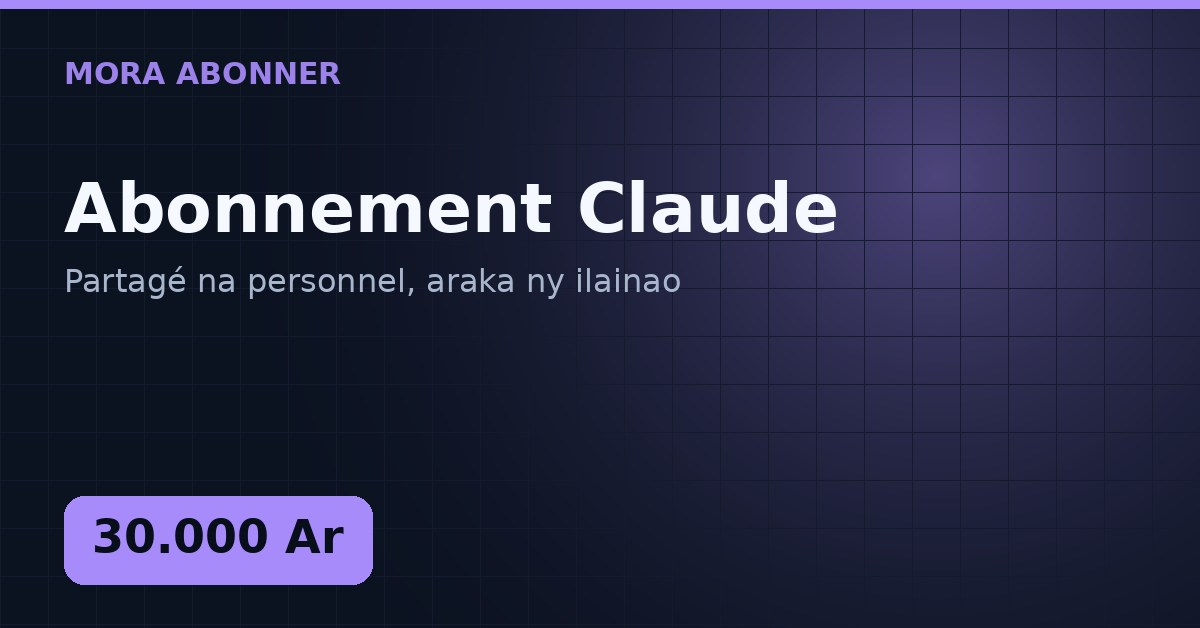
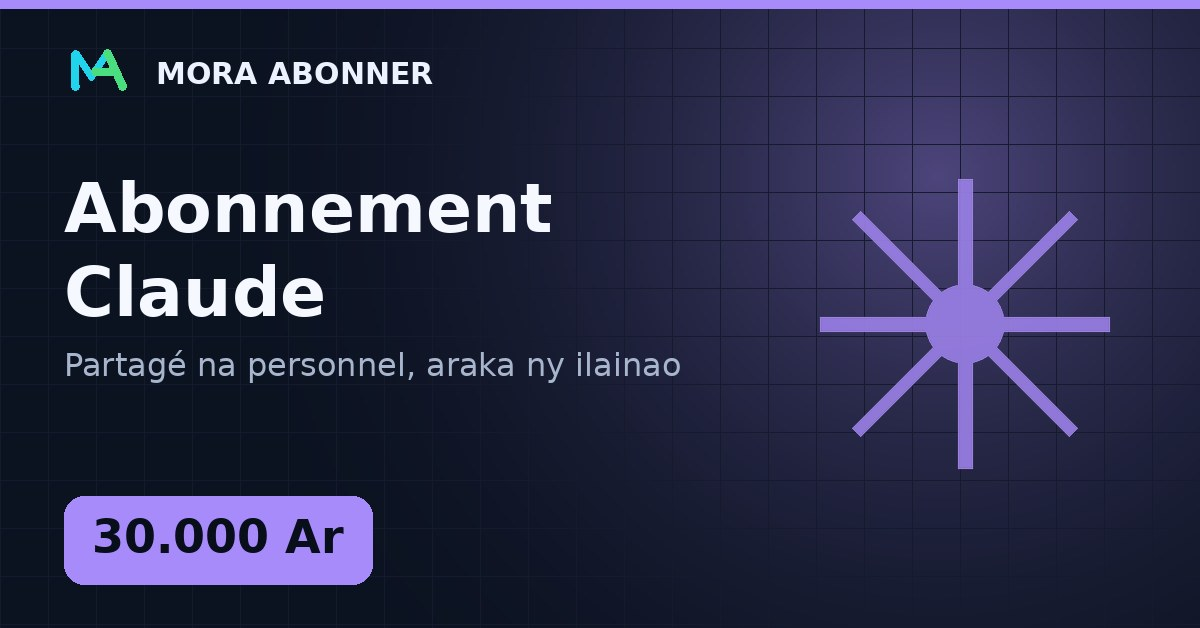
Un symbole par formation, reconnaissable avant la lecture
Le client fait defiler son fil : il doit identifier la formation avant
de lire le titre. Dix couvertures identiques a l exception du texte ne
font pas ce travail.

Chaque formation recoit donc son symbole — terminal, bouclier, crochets,
chandelles, cle, fusee, telephone, rouage, etincelle, JS — a sa couleur,
en grand a droite. Il prend la place qu occupait le grand logo : deux
signes de cette taille se disputeraient le regard, et c est la formation
qu il faut reconnaitre. La marque reste signee en tete.

Ces symboles sont DESSINES, pas empruntes. Le dragon de Kali appartient
a Offensive Security, et il en va de meme des logos Facebook ou
JavaScript : les poser sur du materiel de vente expose le proprietaire,
et le jour ou il faut les retirer, c est toute la boutique qui change
d aspect. Ceux-ci lui appartiennent.

Trois ne se lisaient pas au premier jet et ont ete redessines : la cle
passait pour une loupe, la fusee pour une fleche, les accolades pour un
« H ». Vus sur planche avant publication.

Le second script qui dessinait les trois formations propres au bot
lisait une ancienne copie du premier : ses couvertures sont restees
sans logo ni symbole pendant que les sept autres en avaient. Les deux
sont fusionnes — deux scripts pour un meme dessin finissent toujours
par diverger.

Claude-Session: https://claude.ai/code/session_01Hf4zjrvstZt3tm4cyf9jgX

diff --git a/img/generer-couvertures.py b/img/generer-couvertures.py
@@ -8,6 +8,21 @@ import json, math
 from PIL import Image, ImageDraw, ImageFont
 
 L, H = 1200, 628
+
+# Quel symbole pour quelle formation. La cle est l identifiant du site,
+# ou le champ « sym » pour les formations qui n existent que dans le bot.
+SYMBOLES = {
+    "hacking":     "bouclier",
+    "kali":        "terminal",
+    "fullstack":   "crochets",
+    "js":          "accolades",
+    "trading":     "chandelles",
+    "maintenance": "cle",
+    "boost":       "fusee",
+    "termux":      "telephone",
+    "commandes":   "rouage",
+    "claude":      "etincelle",
+}
 GRAS = "/usr/share/fonts/truetype/dejavu/DejaVuSans-Bold.ttf"
 NORM = "/usr/share/fonts/truetype/dejavu/DejaVuSans.ttf"
 
@@ -40,6 +55,128 @@ def logo_sur(img, x, y, taille, opacite=255):
 
     img.alpha_composite(calque) if img.mode == "RGBA" else \
         img.paste(Image.alpha_composite(img.convert("RGBA"), calque).convert("RGB"), (0, 0))
+
+
+# =====================================================================
+#  UN SYMBOLE PAR FORMATION
+# =====================================================================
+#  Le client fait defiler son fil : il doit reconnaitre la formation
+#  avant de lire le titre. Un symbole fort fait ce travail, le texte ne
+#  le fait pas.
+#
+#  Ces symboles sont DESSINES ici, pas empruntes. Le dragon de Kali, le
+#  logo Facebook ou celui de JavaScript sont des marques deposees : les
+#  poser sur du materiel de vente expose le proprietaire, et le jour ou
+#  il faut les retirer, c est toute la boutique qui change d aspect.
+#
+#  Ils sont traces sur une toile deux fois plus grande puis reduits :
+#  PIL ne lisse pas les traits, et un symbole en escalier ruinerait
+#  l effet recherche.
+# =====================================================================
+
+def icone(nom, taille, coul):
+    Z = 2
+    T = taille * Z
+    c = Image.new("RGBA", (T, T), (0, 0, 0, 0))
+    d = ImageDraw.Draw(c)
+    ep = max(2, round(T * 0.055))
+    C = coul + (255,)
+    u = lambda v: v * T          # coordonnees en fraction de la boite
+
+    def cadre(x0, y0, x1, y1, r=0.06):
+        d.rounded_rectangle([u(x0), u(y0), u(x1), u(y1)], u(r), outline=C, width=ep)
+
+    def trait(pts, w=None):
+        d.line([(u(x), u(y)) for x, y in pts], fill=C, width=w or ep, joint="curve")
+
+    if nom == "bouclier":                     # cybersecurite
+        d.polygon([(u(.5), u(.08)), (u(.9), u(.24)), (u(.9), u(.56)),
+                   (u(.5), u(.93)), (u(.1), u(.56)), (u(.1), u(.24))],
+                  outline=C, width=ep)
+        d.ellipse([u(.41), u(.38), u(.59), u(.56)], outline=C, width=ep)
+        trait([(.5, .54), (.5, .70)], round(ep * 1.3))
+
+    elif nom == "terminal":                   # Kali, pentest
+        cadre(.08, .16, .92, .84, .07)
+        trait([(.08, .32), (.92, .32)])
+        for i, x in enumerate((.17, .23, .29)):
+            d.ellipse([u(x - .018), u(.225), u(x + .018), u(.261)], fill=C)
+        trait([(.22, .46), (.36, .58), (.22, .70)])
+        trait([(.44, .70), (.72, .70)])
+
+    elif nom == "crochets":                   # developpement web
+        trait([(.34, .24), (.12, .5), (.34, .76)], round(ep * 1.15))
+        trait([(.66, .24), (.88, .5), (.66, .76)], round(ep * 1.15))
+        trait([(.58, .17), (.42, .83)], round(ep * 1.15))
+
+    elif nom == "accolades":                  # JavaScript
+        # Les deux accolades se lisaient comme un « H ». Un carre avec
+        # les lettres JS ne laisse aucun doute — et ces deux lettres ne
+        # sont la marque de personne.
+        cadre(.08, .08, .92, .92, .12)
+        po = ImageFont.truetype(GRAS, round(T * .40))
+        tx = "JS"
+        bb = d.textbbox((0, 0), tx, font=po)
+        d.text((T / 2 - (bb[2] - bb[0]) / 2 - bb[0],
+                T / 2 - (bb[3] - bb[1]) / 2 - bb[1]), tx, font=po, fill=C)
+
+    elif nom == "chandelles":                 # trading
+        for x, h0, h1, m0, m1 in ((.22, .52, .78, .44, .86), (.40, .34, .60, .26, .70),
+                                  (.60, .40, .68, .30, .78), (.78, .16, .44, .10, .52)):
+            trait([(x, m0), (x, m1)], max(2, round(ep * .55)))
+            d.rounded_rectangle([u(x - .055), u(h0), u(x + .055), u(h1)], u(.015),
+                                outline=C, width=ep)
+        trait([(.12, .84), (.92, .84)], max(2, round(ep * .7)))
+
+    elif nom == "cle":                        # maintenance
+        # Une cle a molette et un tournevis croises. Le premier jet
+        # dessinait deux cercles relies : on y lisait une loupe.
+        d.pieslice([u(.06), u(.06), u(.40), u(.40)], 120, 45, outline=C, width=ep)
+        trait([(.30, .30), (.84, .84)], round(ep * 1.25))
+        d.rounded_rectangle([u(.80), u(.80), u(.94), u(.94)], u(.02), outline=C, width=ep)
+        trait([(.86, .16), (.40, .66)], round(ep * 1.1))
+        trait([(.30, .74), (.40, .66), (.48, .74), (.38, .84)], ep)
+        trait([(.24, .80), (.32, .88)], round(ep * 1.4))
+
+    elif nom == "fusee":                      # boost
+        # Corps FERME : ouvert, on y voyait une simple fleche.
+        d.polygon([(u(.5), u(.05)), (u(.68), u(.34)), (u(.68), u(.64)),
+                   (u(.5), u(.74)), (u(.32), u(.64)), (u(.32), u(.34))],
+                  outline=C, width=ep)
+        d.ellipse([u(.435), u(.28), u(.565), u(.41)], outline=C, width=ep)
+        d.polygon([(u(.32), u(.50)), (u(.14), u(.78)), (u(.32), u(.70))],
+                  outline=C, width=ep)
+        d.polygon([(u(.68), u(.50)), (u(.86), u(.78)), (u(.68), u(.70))],
+                  outline=C, width=ep)
+        trait([(.5, .78), (.5, .95)], round(ep * 1.3))
+        trait([(.40, .84), (.40, .93)], max(2, round(ep * .8)))
+        trait([(.60, .84), (.60, .93)], max(2, round(ep * .8)))
+
+    elif nom == "telephone":                  # Termux
+        cadre(.26, .06, .74, .94, .10)
+        trait([(.34, .30), (.44, .40), (.34, .50)], max(2, round(ep * .85)))
+        trait([(.50, .50), (.66, .50)], max(2, round(ep * .85)))
+        trait([(.44, .84), (.56, .84)], max(2, round(ep * .9)))
+
+    elif nom == "rouage":                     # commandes sur mesure
+        import math as _m
+        cx = cy = .5; R = .30
+        for k in range(8):
+            a = _m.radians(k * 45)
+            trait([(cx + _m.cos(a) * R, cy + _m.sin(a) * R),
+                   (cx + _m.cos(a) * (R + .13), cy + _m.sin(a) * (R + .13))],
+                  round(ep * 1.1))
+        d.ellipse([u(cx - R), u(cy - R), u(cx + R), u(cy + R)], outline=C, width=ep)
+        d.ellipse([u(cx - .11), u(cy - .11), u(cx + .11), u(cy + .11)], outline=C, width=ep)
+
+    elif nom == "etincelle":                  # abonnement assistant
+        trait([(.5, .06), (.5, .94)], round(ep * .9))
+        trait([(.06, .5), (.94, .5)], round(ep * .9))
+        trait([(.17, .17), (.83, .83)], round(ep * .75))
+        trait([(.83, .17), (.17, .83)], round(ep * .75))
+        d.ellipse([u(.38), u(.38), u(.62), u(.62)], fill=C)
+
+    return c.resize((taille, taille), Image.LANCZOS)
 
 def rgb(h):
     h = h.lstrip("#")
@@ -80,9 +217,17 @@ def couverture(f, chemin):
 
     d.rectangle([0, 0, L, 8], fill=acc)
 
-    # Le logo en grand, a droite : c est la premiere chose que le
-    # client voit dans son fil, avant meme de lire le titre.
-    logo_sur(img, L - 455, H - 500, 430, 78)
+    # A droite, le symbole de la formation. Il prend la place que le
+    # logo occupait : deux grands signes se disputeraient le regard, et
+    # c est la FORMATION que le client doit reconnaitre en premier. La
+    # marque, elle, est signee en tete.
+    sym = icone(SYMBOLES.get(f.get("sym") or f["id"], "bouclier"), 330, acc)
+    halo = Image.new("RGBA", img.size, (0, 0, 0, 0))
+    halo.paste(sym, (L - 400, (H - 330) // 2 + 10), sym)
+    img.paste(Image.alpha_composite(img.convert("RGBA"),
+              Image.blend(Image.new("RGBA", img.size, (0, 0, 0, 0)), halo, 0.92)
+              ).convert("RGB"), (0, 0))
+    d = ImageDraw.Draw(img)
 
     # Et net, en tete, avec le nom : le filigrane donne la presence, la
     # signature donne le nom.
@@ -123,6 +268,26 @@ def couverture(f, chemin):
 #     console.log(s.slice(s.indexOf('['), s.lastIndexOf(']')+1))" > /tmp/cat.json
 #   python3 img/generer-couvertures.py
 cat = json.load(open("/tmp/cat.json"))
+
+# Les formations qui n existent que dans le bot. Elles n ont pas de
+# fiche sur le site, donc ni couleur ni sous-titre : on les decrit ici.
+#
+# Elles etaient dans un second script, qui lisait une ancienne copie de
+# celui-ci : ses trois couvertures sont restees sans logo ni symbole
+# pendant que les sept autres en avaient. Deux scripts pour un meme
+# dessin finissent toujours par diverger.
+cat += [
+  {"id": "termux", "titre": "Base Termux (Android)",
+   "sous": "Manomboka amin'ny finday, tsy mila ordinateur",
+   "prix": 50000, "acc": "#4ade80"},
+  {"id": "commandes", "titre": "Commandes spéciales",
+   "sous": "Script sy fitaovana Termux / Kali natao ho anao",
+   "prix": 10000, "acc": "#fbbf24"},
+  {"id": "claude", "titre": "Abonnement Claude",
+   "sous": "Partagé na personnel, araka ny ilainao",
+   "prix": 30000, "acc": "#a78bfa"},
+]
+
 for f in cat:
     p = couverture(f, f"img/{f['id']}.jpg")
     print(f"{f['id']:<13} {p}")
